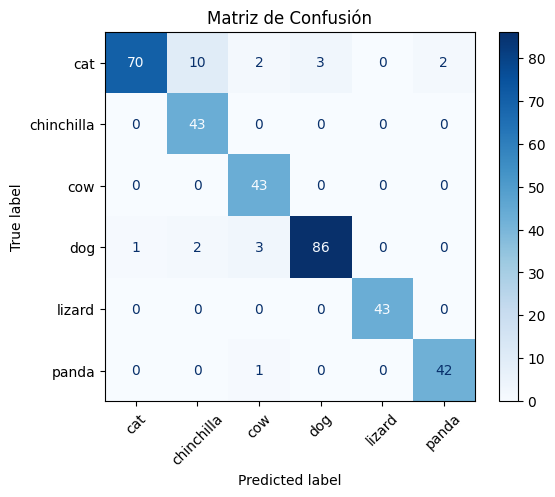
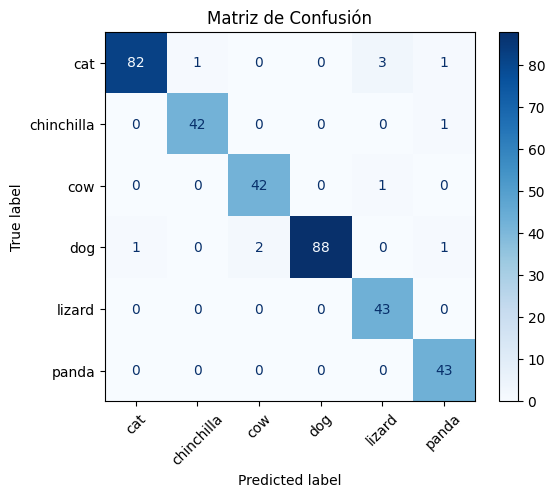
Update-final
Fix links and reeplace matrix img

diff --git a/app/docs/code-reference/page.tsx b/app/docs/code-reference/page.tsx
@@ -611,9 +611,9 @@ print(f"Registros de la matriz de confusión y métricas guardados en: {log_dir_
 
 
 === Métricas Generales ===
-Precisión por clase: {'cat': 0.9859154929577465, 'chinchilla': 0.7818181818181819, 'cow': 0.8775510204081632, 'dog': 0.9662921348314607, 'lizard': 1.0, 'panda': 0.9545454545454546}
-Recall por clase: {'cat': 0.8045977011494253, 'chinchilla': 1.0, 'cow': 1.0, 'dog': 0.9347826086956522, 'lizard': 1.0, 'panda': 0.9767441860465116}
-F1-score por clase: {'cat': 0.8860759493670887, 'chinchilla': 0.8775510204081634, 'cow': 0.9347826086956522, 'dog': 0.9502762430939227, 'lizard': 1.0, 'panda': 0.9655172413793104}
+Precisión por clase: {'cat': 0.9879518072289156, 'chinchilla': 0.9767441860465116, 'cow': 0.9545454545454546, 'dog': 1.0, 'lizard': 0.9148936170212766, 'panda': 0.9347826086956522}
+Recall por clase: {'cat': 0.9425287356321839, 'chinchilla': 0.9767441860465116, 'cow': 0.9767441860465116, 'dog': 0.9565217391304348, 'lizard': 1.0, 'panda': 1.0}
+F1-score por clase: {'cat': 0.9647058823529412, 'chinchilla': 0.9767441860465116, 'cow': 0.9655172413793104, 'dog': 0.9777777777777777, 'lizard': 0.9555555555555556, 'panda': 0.9662921348314606}
 
 Registros de la matriz de confusión y métricas guardados en: /kaggle/working/tensorboard_logs/confusion_matrix_logs
 "

diff --git a/app/docs/resources/page.tsx b/app/docs/resources/page.tsx
@@ -119,7 +119,7 @@ export default function ResourcesPage() {
             </h3>
             <p className="mb-4">Descarga el modelo entrenado en formato .keras:</p>
             <a
-              href="https://www.mediafire.com/file/f39zbonlh36s1ur/final_model.keras/file"
+              href="https://www.mediafire.com/file/h7e2gb3sre193tz/final_model.keras/file"
               target="_blank"
               rel="noopener noreferrer"
               className="text-blue-600 hover:underline"
@@ -135,18 +135,13 @@ export default function ResourcesPage() {
             </h3>
             <p className="mb-4">Descarga el modelo entrenado en formato .h5:</p>
             <a
-              href="/ruta/a/tu-modelo.h5"
+              href="https://www.mediafire.com/file/w7n2qp2dhw1f889/final_model.h5/file"
               download
               className="text-blue-600 hover:underline"
             >
               Descargar modelo .h5
             </a>
           </section>
-
-          <Link href="/docs" className="flex items-center text-primary mb-4 ">
-            <ArrowLeft className="mr-2" />
-            Volver a Documentación
-          </Link>
 
         </motion.div>
       </div>
